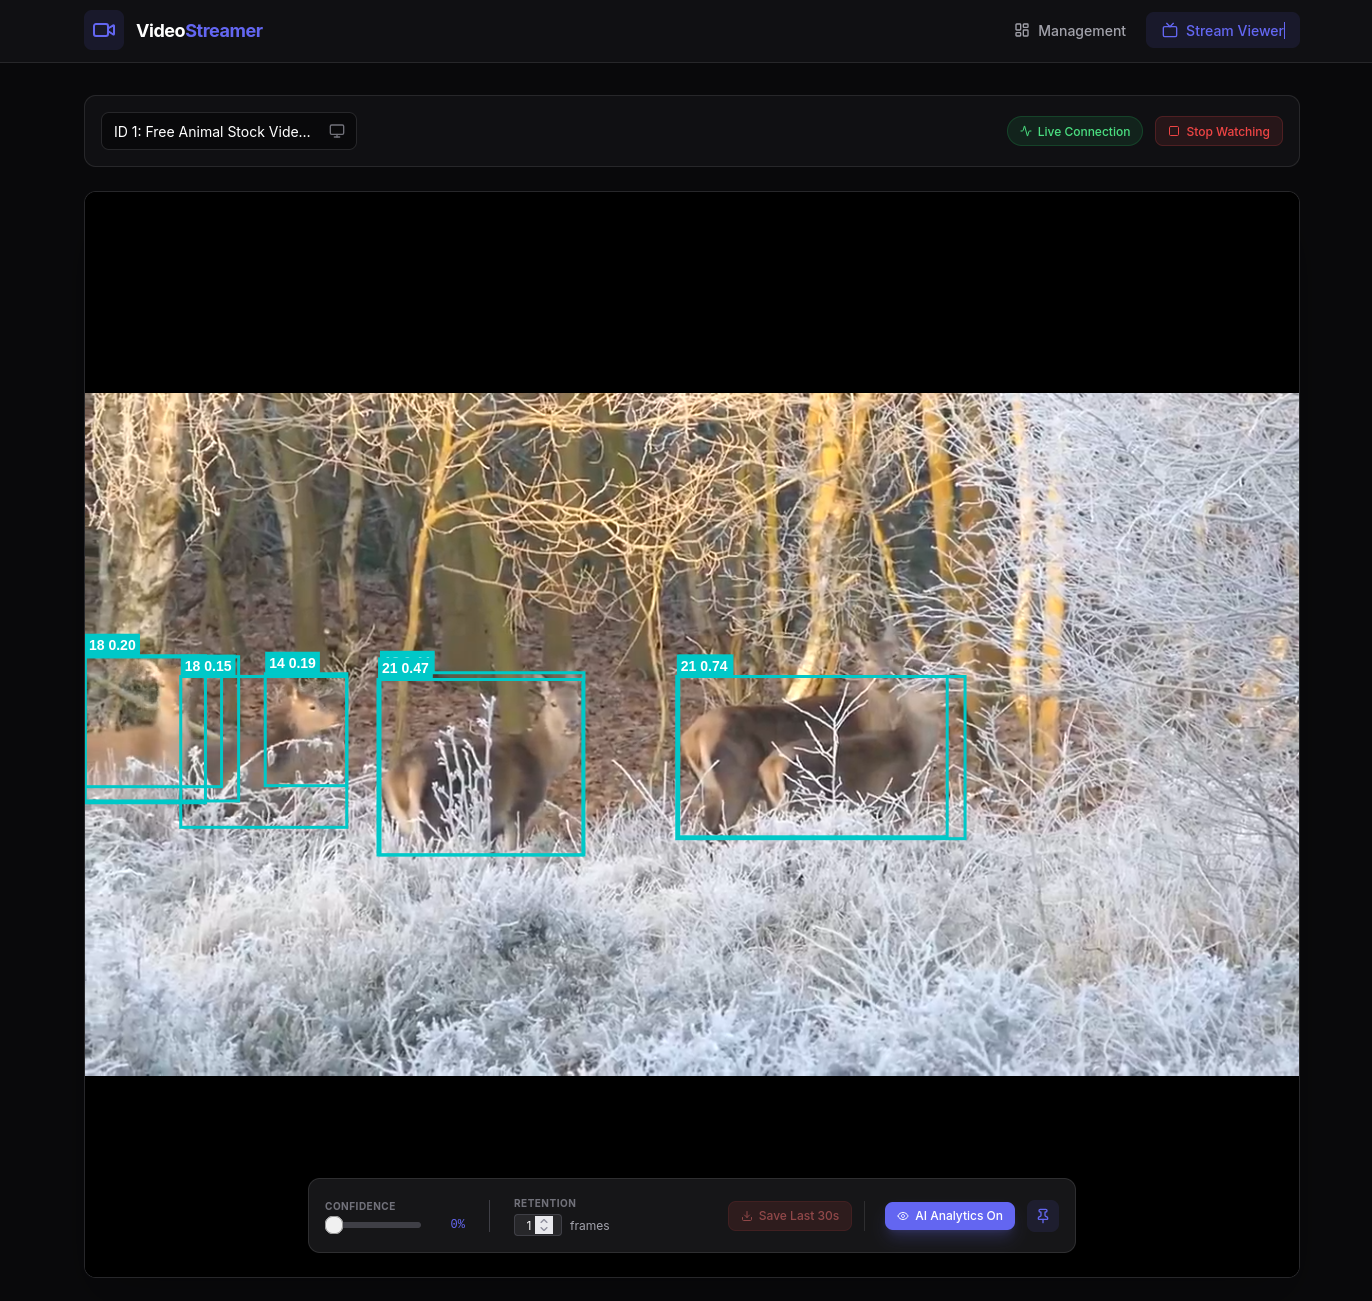
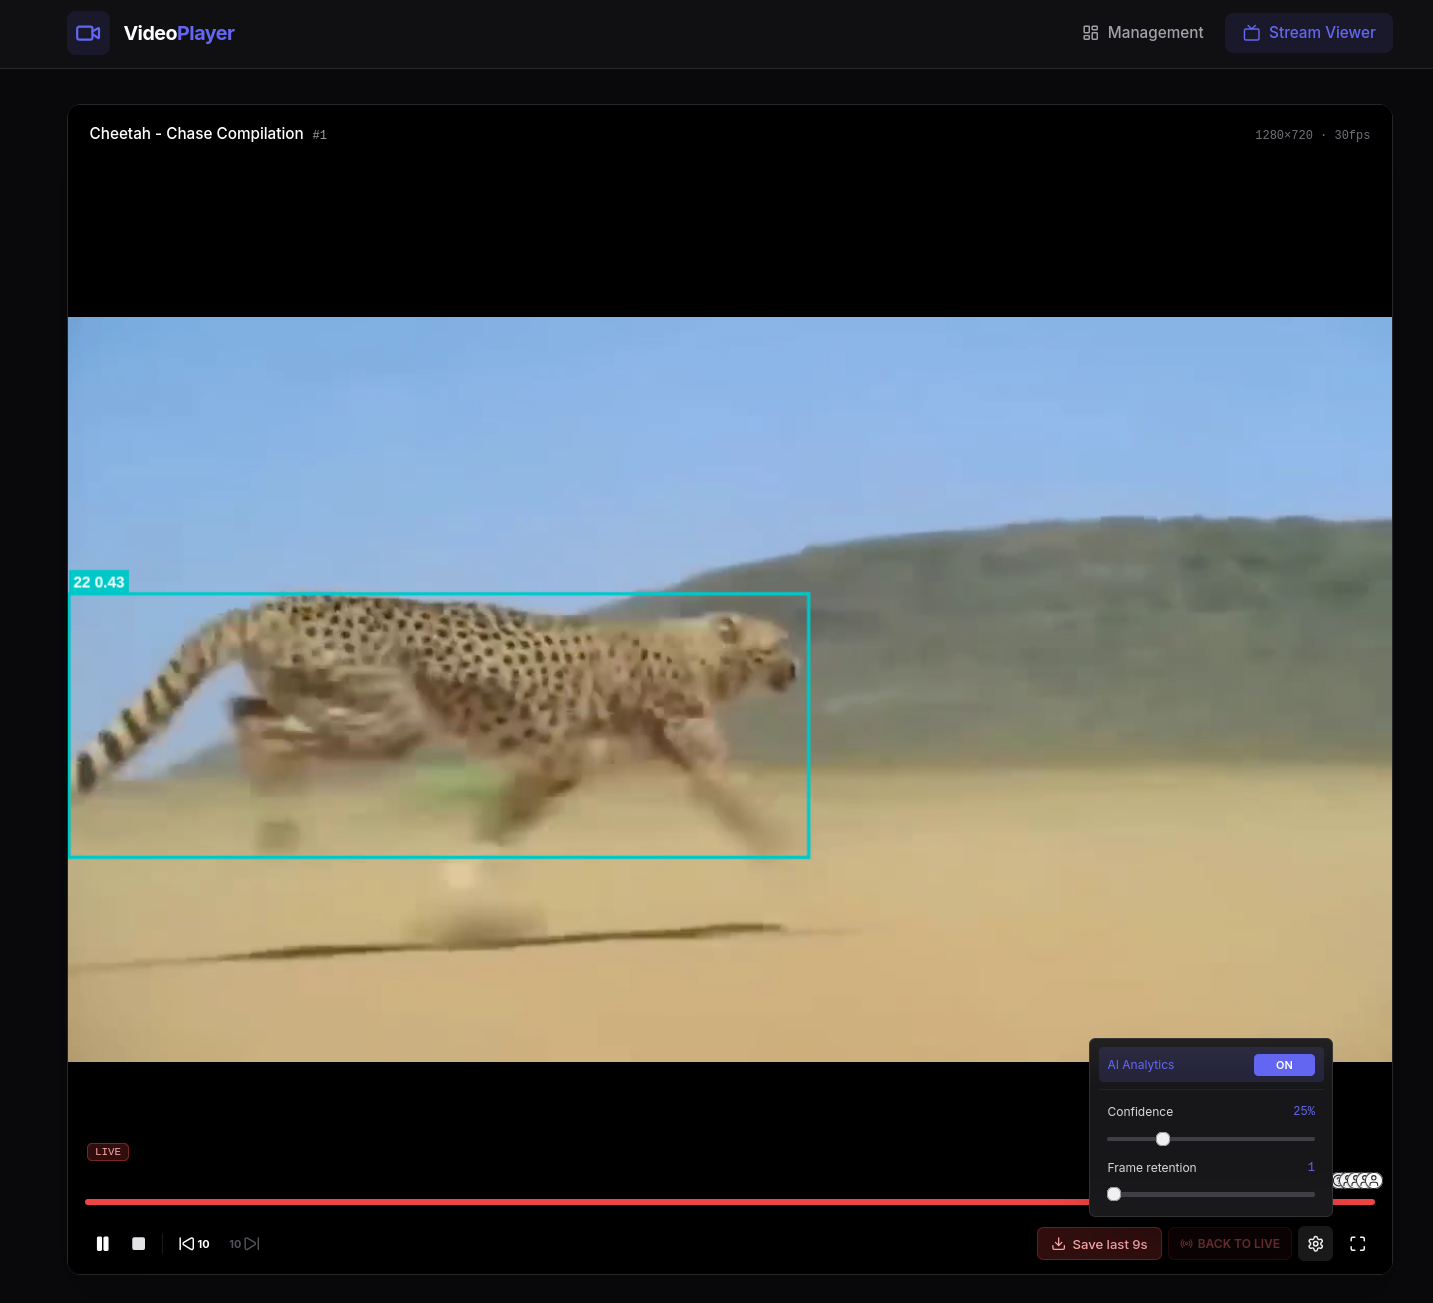
changed readmes

diff --git a/library/README.md b/library/README.md
@@ -1,14 +1,24 @@
 # Video Client Library
-This library provides a user friendly integration for consuming real time video streams. It allows to send back AI analytics results and receive video streams with low latency.
-The library is built using **Rust** language and provides C bindings for easy integration with third party applications.<br>
-The Library automatically connects to a streaming video(over TCP), and allows sending AI analytics directly to the backend.
+
+Native client library for consuming real-time video streams from the Video Player backend and pushing AI analytics back with low latency.
+
+Built in **Rust** and distributed as a C dynamic library (`libclient_video.so`) for easy integration into third-party desktop / mobile applications. The library connects over HTTP to the backend's **progressive fMP4** endpoint, decodes H.264 / HEVC frames using a statically-linked FFmpeg, and delivers raw RGB frames and stream metadata to the host application via C callbacks. AI results (bounding boxes, etc.) are POSTed back to the backend per source.
+
+## What It Does
+
+- **Multi-source streaming** — Manages any number of concurrent video sources; each source runs on its own async task with automatic reconnect on network failure.
+- **C callback surface** — Register callbacks for frame delivery, stream metadata, status transitions, and POST results; initialise or stop multiple sources in a single call; push analytics JSON per source.
+- **Non-blocking analytics pipeline** — FFI callers enqueue JSON into a bounded ring buffer that a background task drains and POSTs asynchronously, so slow networks can't block the caller thread. Oldest entries are dropped if the queue overflows.
+- **Self-contained decoding** — Decoder-only FFmpeg is built statically into the shared library; no external codec dependencies are required at runtime.
 
 ## Building the Library
-To build the library, ensure you have the necessary dependencies installed. You can then run the following command in the terminal:
+
+Install the toolchain required to build FFmpeg from source:
+
 ```bash
 # Install dependencies on Fedora-based systems
 dnf install -y \
-  perl-FindBin
+  perl-FindBin \
   clang \
   clang-devel \
   llvm-devel \
@@ -26,12 +36,20 @@ dnf install -y \
   diffutils \
   gettext \
   wget
-
-# Build dependencies required to build the library
-./build_dependencies.sh
 ```
 
-After building the dependencies(Done only once), you can build the library by running the following command:
+The build is split into three phases so the last two can run **completely offline**:
+
 ```bash
+# 1. Download FFmpeg source (requires internet) → produces dependencies_src.tar.gz
+./download_dependencies.sh
+
+# 2. Build a minimal decoder-only static FFmpeg from the downloaded source (offline)
+#    → produces dependencies.tar.gz
+./build_dependencies.sh
+
+# 3. Build the final libclient_video.so against the pre-built FFmpeg (offline)
 ./build_library.sh
-``` 
+```
+
+Phases 1 and 2 only need to be re-run when the pinned FFmpeg version changes — the resulting `dependencies.tar.gz` is portable and can be copied to other machines to skip straight to phase 3.

diff --git a/frontend/README.md b/frontend/README.md
@@ -1,6 +1,6 @@
 # Video Player Frontend
 
-Modern React-based video streaming application with real-time bounding box overlay.
+Modern React-based video streaming application with DVR playback, real-time AI analytics overlay, and in-browser clip export.
 
 ## Tech Stack
 
@@ -56,7 +56,17 @@ The built files will be in the `dist/` directory.
 
 ## Features
 
-- **Live DASH Streaming**: Adaptive bitrate video streaming
-- **Real-time BBox Overlay**: WebSocket-based bounding box display synchronized with video PTS
-- **Frame-based Retention**: Configurable bbox persistence
-- **Stream Management**: Start, stop, and monitor video streams
+The app is split into two pages:
+
+### Management page (`/`)
+- Upload videos via multipart form with live progress.
+- List, inspect, and delete videos in the library.
+- Start and stop streams; status badges update live via WebSocket (`Streaming` / `Initializing` / `Terminating` / `Stopped`).
+- Stream info modal exposes the DASH manifest URL and progressive fMP4 URLs used by native consumers of the Rust client library.
+
+### Viewer page (`/viewer`)
+- **DASH playback with DVR** — dash.js-backed player with a rolling DVR window, seekable timeline, "behind live" indicator, back-to-live button, and ±5s skip. Progressive fMP4 URLs are advertised by the backend but are **not** used by the browser player — DASH is the only playback path.
+- **AI analytics overlay** — Canvas bounding-box overlay driven by a RAF loop and synced to video PTS from WebSocket messages, with a min-confidence slider and configurable retention-frames behaviour.
+- **Clip export (DVR replay)** — Select a range on the timeline and export it as an MP4 entirely in the browser: an off-main-thread Web Worker parses the DASH manifest, fetches the covering segments, decodes with `VideoDecoder`, composites bboxes onto an `OffscreenCanvas`, re-encodes with `VideoEncoder`, and muxes the result. Clips are capped at 300s; progress is reported via toast.
+- **Live recording** — On the live edge, capture the last ~30 seconds into a rolling frame buffer (with optional bbox compositing) and save to MP4 on demand.
+- **Fullscreen + keyboard shortcuts** — `space` play/pause, arrow keys seek / skip, `f` fullscreen, `esc` cancel clip selection; controls auto-hide in fullscreen.

diff --git a/backend/README.md b/backend/README.md
@@ -1,11 +1,16 @@
 # Video Player Backend
 
-This is the backend service for the Video Player application. It handles video streaming and analytics data management.
+Async FastAPI server that orchestrates video streaming and relays AI analytics between the Rust client library and the browser frontend. Runs on port 8702 by default.
 
-## Features
+## What It Does
 
-- **Video Streaming**: Supports streaming via both DASH (Dynamic Adaptive Streaming over HTTP) and TCP protocols.
-- **AI Analytics**: Provides endpoints to receive and process AI analytics data associated with video streams.
+- **DASH streaming** — Encodes uploaded videos with FFmpeg (libx264, 2-second segments) and serves a live MPD manifest with a rolling **300-second DVR window** for adaptive, seekable playback in the browser.
+- **Progressive fMP4 streaming** — Parallel low-latency path that **remuxes without re-encoding** (`-c:v copy`) and fans fragments out to multiple subscribers from a single FFmpeg pipeline. Consumed by the Rust client library for frame-accurate decode.
+- **AI analytics pipeline** — Accepts bounding-box POSTs from the library, retains them in memory for the DVR window (plus a small safety margin), and broadcasts them in real time over a global WebSocket so connected frontends can overlay detections synced to video PTS.
+- **Stream lifecycle** — Each stream transitions through `INITIALIZING → STREAMING → TERMINATING`; state is exposed via REST and WebSocket `video_update` events.
+- **REST + WebSocket surface** — Grouped endpoints for `videos/*` (upload, list, delete), `streams/*` (start, stop, status), `bboxes/*` (ingest, fetch, cleanup), `dash/{id}/*` and `progressive/{id}/*` (segment serving), and a single global `/ws` WebSocket for `bbox_update` and `video_update` events.
+
+The server itself is deliberately thin — all heavy video work is delegated to FFmpeg subprocesses, and state is kept in-memory (no database).
 
 ## Configuration
 

diff --git a/README.md b/README.md
@@ -4,14 +4,15 @@ The application allows a user to stream video files from a server to a client ov
 
 ## Architecture
 The application is divided into three main components:
-1. **Backend**: Responsible for reading video files from disk, encoding them into a suitable format for streaming, and sending the encoded video data over a network connection to the client. The server uses **FFmpeg** to stream the video files.
+1. **Backend**: An async **FastAPI** server that orchestrates **FFmpeg** to expose each uploaded video over two parallel protocols — **DASH** (adaptive, with a rolling 300-second DVR window) for browser playback, and **progressive fMP4** (zero-copy remux, low-latency fan-out) for native consumers. It also ingests AI analytics over REST and broadcasts them in real time over a global WebSocket so connected clients can overlay detections synced to video PTS.
 
-2. **Frontend**: A web user interface that allows users to select video files to stream, control playback (play, pause, stop), and view the video stream (Including AI Analytics sent in real time). The frontend is build on the following stack:
+2. **Frontend**: A web user interface for managing videos, controlling streams, and watching live feeds with full DVR (rewind, seek, back-to-live, skip). AI analytics are rendered as real-time bounding-box overlays synced to the video, with confidence and retention controls. Users can also export clips from the DVR window to MP4 entirely in the browser (via `VideoDecoder` / `VideoEncoder` / `mp4-muxer` in a Web Worker) and save short live recordings on demand. Built on:
 - **Vite**
 - **React**
 - **Tailwind CSS**
+- **dash.js** for DASH playback
 
-3. **Library**: A shared library that is distributed to third party application, allowing them to connect to the server and receive live video streams. The library also provides functionality ot send back AI Analytics data to the server in real time, to be displayed to end users. The library is build using **Rust**, with **FFmpeg** for video decoding.
+3. **Library**: A native client library distributed as a C dynamic library (`libclient_video.so`), allowing third-party applications to connect to the backend, decode live video, and push AI analytics back with low latency. Built in **Rust** with a statically-linked decoder-only **FFmpeg**, so it has no runtime codec dependencies. The build is split into three phases (download → dependencies → library) so the final compile can run fully offline.
 
 ## Getting Started
 To get started with the video streaming application, follow these steps:<br>
@@ -35,6 +36,3 @@ Start a development environment(unified for frontend and backend):
 **Frontend**:<br>
 <img src="assets/video-player-frontend-2.png" alt="Video Player Frontend" width="700"/><br>
 <img src="assets/video-player-frontend-1.png" alt="Video Player Frontend" width="700"/><br>
-
-**Backend**:<br>
-<img src="assets/video-player-backend.png" alt="Video Player Backend" width="700"/>